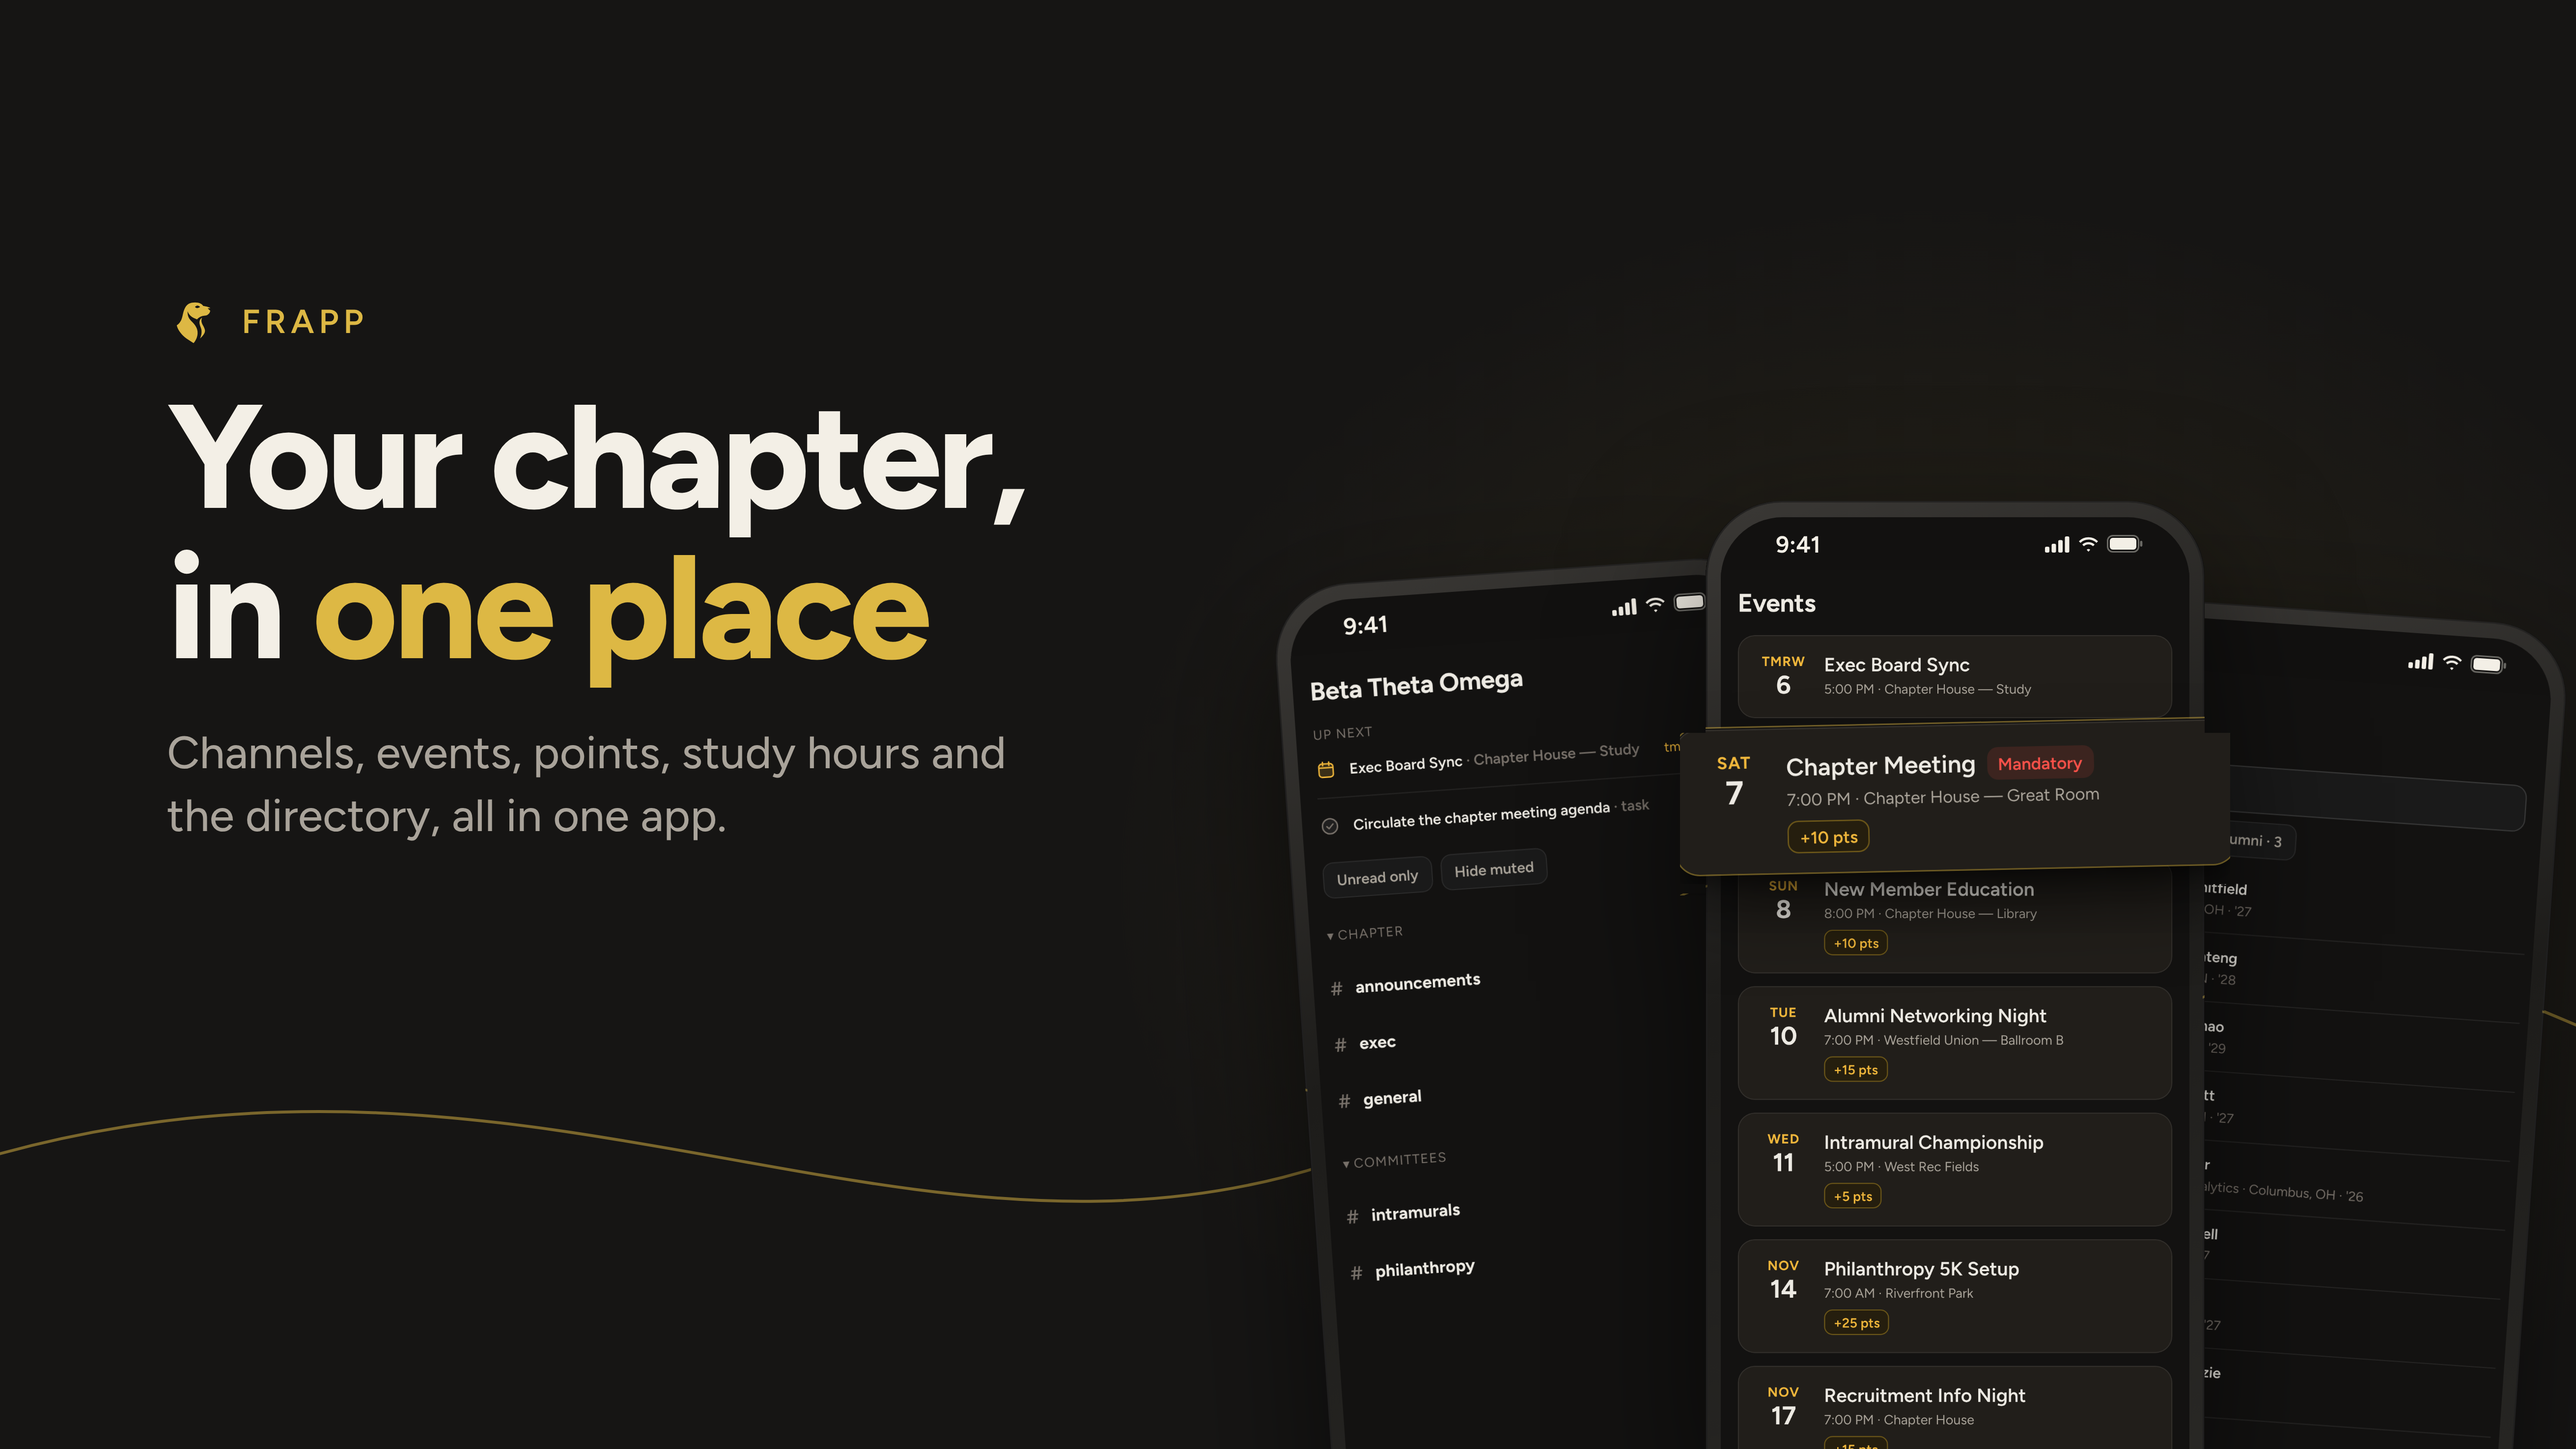
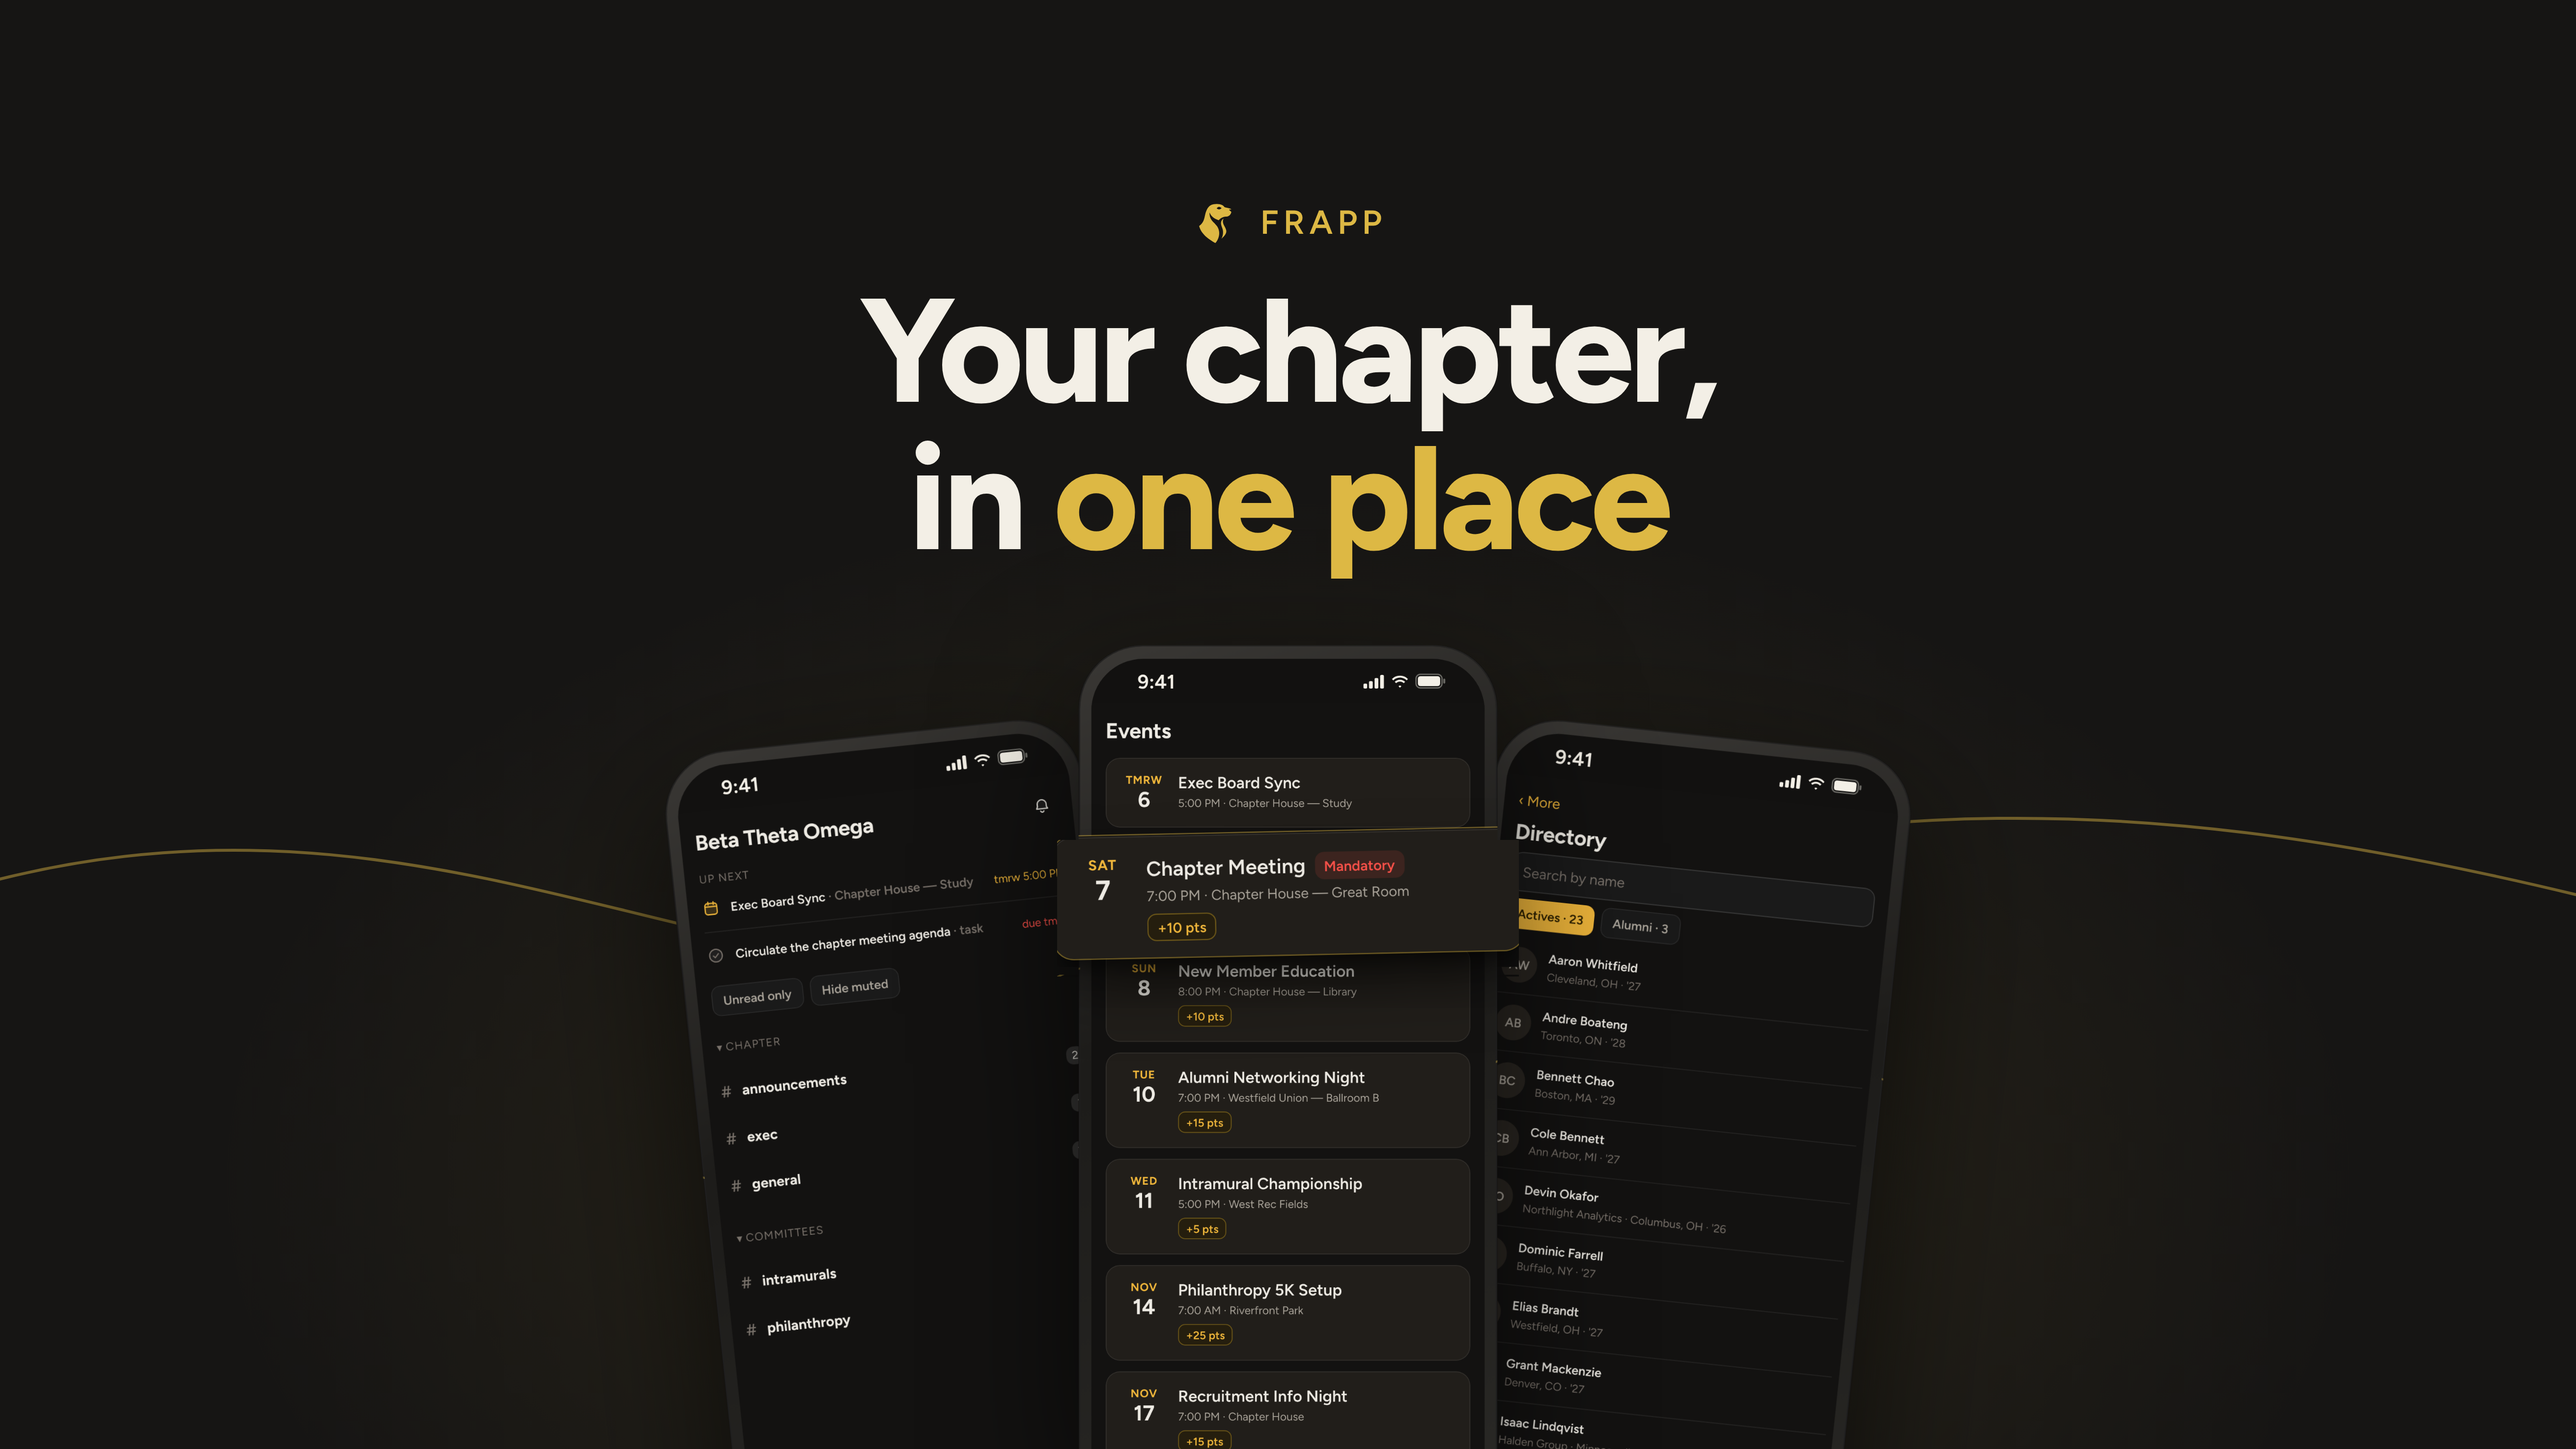
docs(mobile): center the App Store header so the iPhone crop keeps the headline
Claude-Session: https://claude.ai/code/session_01Q51MkVazBJGpjZ7eAAjz11

diff --git a/apps/mobile/store/README.md b/apps/mobile/store/README.md
@@ -49,7 +49,9 @@ tab. Both are in [`graphics/app-store/`](graphics/app-store/):
 App Store Connect uses the screenshots instead. Both images were composed on 2026-11-05 from
 the charcoal screenshot set (`scripts/demo/store-frames.mjs`). Nothing renders them, so
 `check:brand-assets` doesn't check them, and they go stale when the screenshots change. The
-owner uploaded the header on 2026-11-05.
+header is centered: on an iPhone the product page shows only its middle (about 62% of the
+width, and the top three quarters above the app card), so the first, left-aligned version
+lost its headline there and was replaced the same day.
 
 **App Store screenshot slot.** The version page's screenshot slot is now *iPhone with Dynamic
 Island (medium display)*. It rejected the 1320 × 2868 set and took **1206 × 2622**
